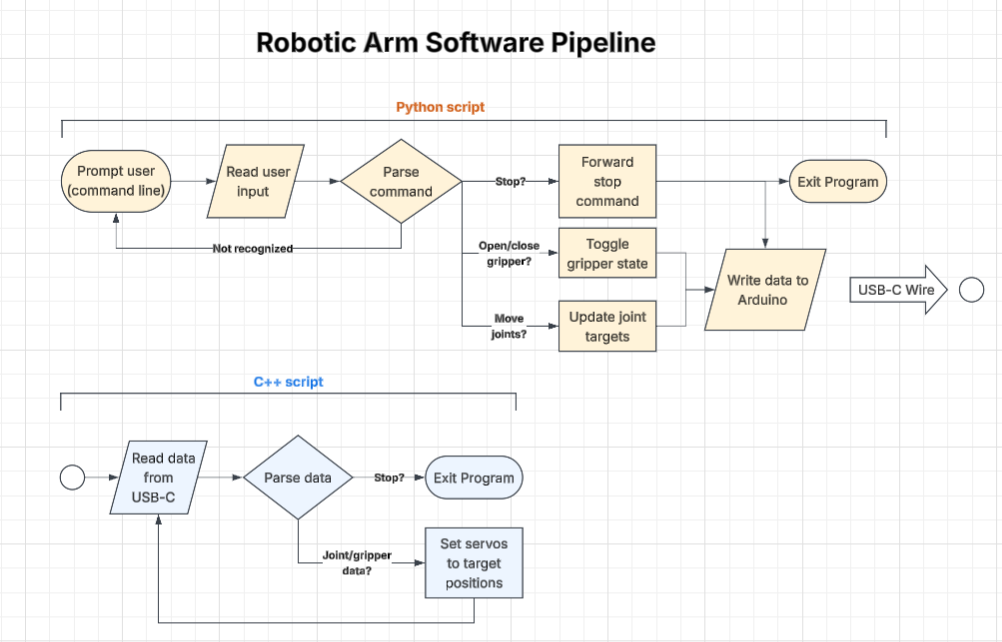
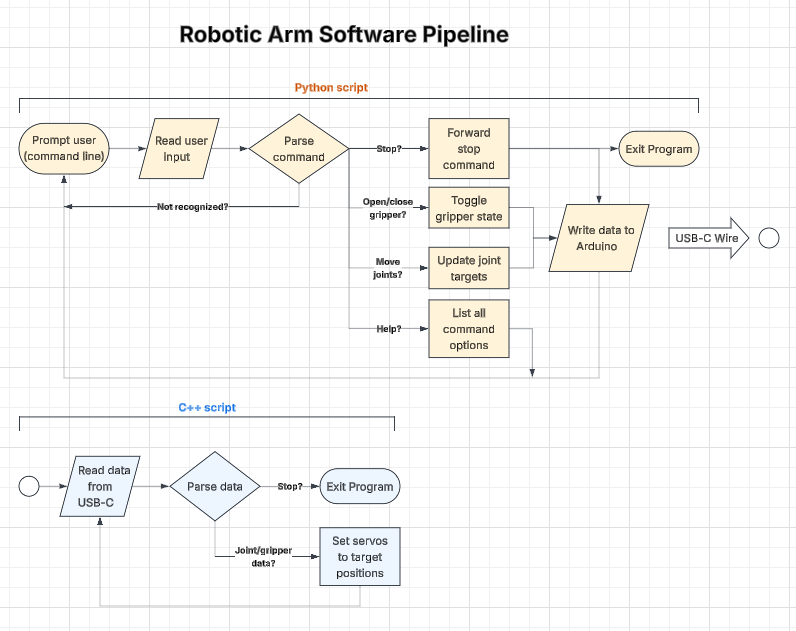
updating system diagram

Changed region(s): [[0.0, 0.1204, 0.995, 0.9937], [0.2111, 0.0301, 0.6633, 0.0903], [0.7236, 0.5721, 0.7538, 0.6022]]

diff --git a/src/main.py b/src/main.py
@@ -1,4 +1,18 @@
 
+# shoulder 1 and 2 are 1 servo each
+# wrist1's AoR is parallel with elbow AoR
+# wrist2's AoR is perp to elbow AoR
+joint_names = ["shoulder1", "shoulder2", "elbow", "wrist1", "wrist2", "gripper"]
+joint_targets = [0, 0, 0, 0, 0] 
+
+
+def reset_to_home():
+    joint_targets = [0, 0, 0, 0, 0]
+
+
+reset_to_home()
+
+
 while True:
     print("help for full command list")
     cmd = input(">")
